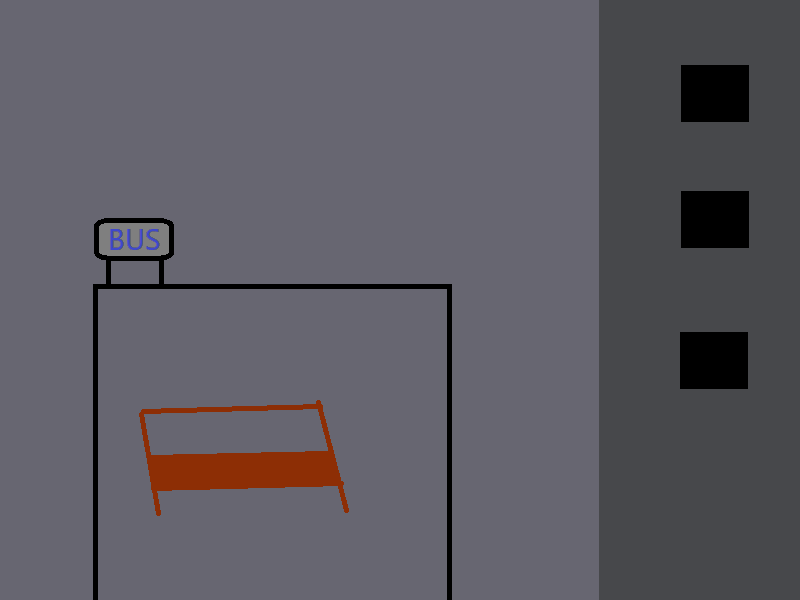
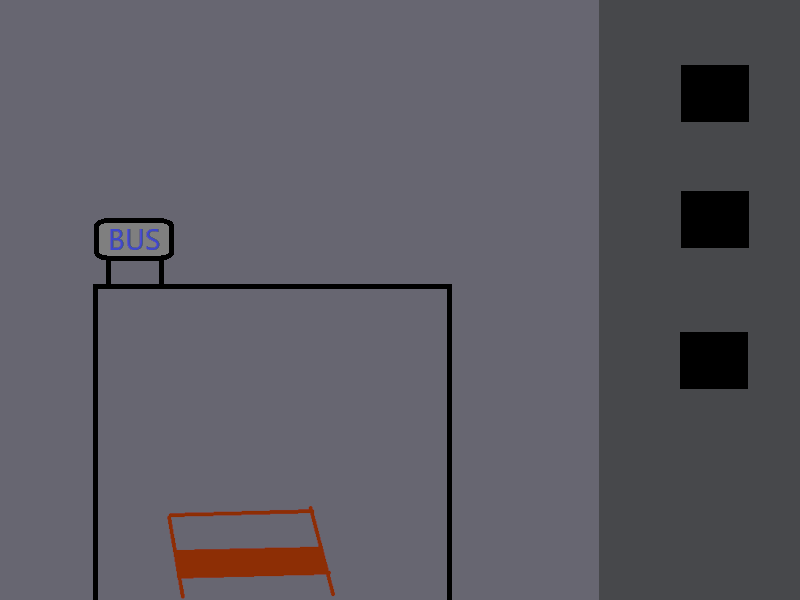
added possibility to scroll screens and load more sprites conditionally

Changed region(s): [[0.1562, 0.66, 0.4375, 1.0]]

diff --git a/gameloop.py b/gameloop.py
@@ -1,24 +1,64 @@
 import pygame
 import graphics as gp
 
+#Hardcoded screensize, to keep it relatively simple
 SCREENWIDTH = 800
 SCREENHEIGHT = 600
 
+#Action variables
+moveRight = False
+moveLeft = False
+jumping = False
+
+#Gameplay variables
+currentBg = 0
+lastBg = 0
+
+#Gamesettings
+clock = pygame.time.Clock()
+fps = 60
+
+#Character that is controlled by the player
 class Player:
     def __init__(self, health, stamina, level):
         self.health = health
         self.stamina = stamina
         self.level = level
+
         self.playerSprite = gp.getPlayerSprite()
+        self.speed = 5
+        self.playerSprite.rect.y = 505
+
     def __repr__(self):
         return f"Health: {self.health}, Stam: {self.stamina}, Level: {self.level}"
+    
+    #Player movement
+    def move (self):
+        dx = 0
+        dy = 0
 
+        if moveLeft:
+            dx = -self.speed
+        if moveRight:
+            dx = self.speed
+
+        self.playerSprite.rect.x += dx
+        self.playerSprite.rect.y += dy
+
+#Item within the game, that is not part of the background (sprite)
+class GameItem:
+    def __init__(self,name,scale):
+        self.decSprite = gp.InteractiveSprite(scale,name)
+        self.decSprite.rect.x = 0
+        self.decSprite.rect.y = 0
+
+#Future development
 class Enemy:
     def __init__(self):
         print("nothing here yet")
 
+#Placeholder class for possible settings
 class Game: 
-
     #For future pre-launch settings
     def __init__(self, x):
         self.x = x        
@@ -28,32 +68,76 @@ class Game:
     
 #Variables for various purposes in the loop
 gameRun = True
+
+#Gamescreen setup
 screen = pygame.display.set_mode((SCREENWIDTH, SCREENHEIGHT))
 pygame.display.set_caption('HackerMan64')
 player = Player(100, 100, 1)
-background = gp.loadImage('bg0.png')
-#background = pygame.transform.smoothscale(background, screen.get_size())
+bgArray = gp.backgroundArrayLoader('bg')
 
+#Puzzleitems
+chest = GameItem('chest3', 0.5)
+
+#Spritegrouping
 spritegroup1 = pygame.sprite.Group()
 spritegroup1.add(player.playerSprite)
+#spritegroup1.add(chest.decSprite)
     
-
 #Main gameloop
 while gameRun:
     
-    screen.blit(background, (0,0))
+    #Sets tickrate to the game (caps it rather)
+    clock.tick(fps)
+
+    #Setting playscreen background and drawing sprites
+    screen.blit(bgArray[currentBg], (0,0))
     spritegroup1.draw(screen)
 
+    #Button press / release events
     for event in pygame.event.get():
         if event.type == pygame.QUIT:
             gameRun = False
+        if event.type == pygame.KEYDOWN:
+            if event.key == pygame.K_a:
+                moveLeft = True
+            if event.key == pygame.K_d:
+                moveRight = True
+
+        if event.type == pygame.KEYUP:
+            if event.key == pygame.K_a:
+                moveLeft = False
+            if event.key == pygame.K_d:
+                moveRight = False
+
+    #Player sprite movement and background checks
+    player.move()
+
+    #Changing background if player moves over from the right side
+    if player.playerSprite.rect.x >= 755:
+        lastBg = currentBg
+        currentBg = currentBg + 1
+        player.playerSprite.rect.x = 0
+        if currentBg == 1 and lastBg == 0:
+            spritegroup1.add(chest.decSprite)
     
-    keys = pygame.key.get_pressed()
-    if keys[pygame.K_w]:
-        print(player)
+    #-||- from the left side
+    if player.playerSprite.rect.x <= -1 and currentBg != 0:
+        lastBg = currentBg
+        currentBg = currentBg - 1
+        player.playerSprite.rect.x = 754
+        if currentBg == 1 and lastBg == 2:
+            spritegroup1.add(chest.decSprite)
 
+    #Blocking player from moving left in starting screen
+    if player.playerSprite.rect.x < 0 and currentBg == 0:
+        player.playerSprite.rect.x = 0
+    
+    #Removing sprites that are not part of current screen
+    if currentBg != 1:
+        spritegroup1.remove(chest.decSprite)
+
+    print(currentBg)
     pygame.display.flip()
-
 
 pygame.quit()
     

diff --git a/graphics.py b/graphics.py
@@ -3,24 +3,38 @@ import pygame
 
 ASSET_FOLDER = 'assets/'
 
+environmentSprites = []
+
+#Moving sprites, eg players and enemies
 class MovableSprite (pygame.sprite.Sprite):
     def __init__(self):
         super().__init__()
-        self.image = loadSpriteImage('char0.png')
+        self.image = loadSpriteImage('char0')
         self.rect = self.image.get_rect()
         self.mask = pygame.mask.from_surface(self.image)
-    
-class DecorationSprite:
-    def __init__(self, scale):
+
+#Sprites that have are non-moving and non-interactable    
+class DecorationSprite (pygame.sprite.Sprite):
+    def __init__(self, scale, name):
+        super().__init__()
         self.scale = scale
+        self.name = name
 
     def __repr__(self):
-        return f"Scale: {self.scale}"
-    
-class InteractiveSprite:
-    def __init__(self,scale,rarity):
+        return f"Scale: {self.scale}, name: {self.name}"
+
+#Sprites that have some amount of interaction
+class InteractiveSprite (pygame.sprite.Sprite):
+    def __init__(self,scale,name):
+        super().__init__()
+        self.image = loadEnvironmentSpriteImage(name)
+        self.rect = self.image.get_rect()
+        self.mask = pygame.mask.from_surface(self.image)
+        self.name = name
+        
+        #Scaling the object to desired size
         self.scale = scale
-        self.rarity = rarity
+        self.image = pygame.transform.scale_by(self.image, scale)
 
     def __repr__(self):
         return f"Scale: {self.scale}, Rarity: {self.rarity}"
@@ -35,7 +49,20 @@ def loadImage(fname):
     return img
 
 def loadSpriteImage(fname):
-    imgpath = f"{ASSET_FOLDER}/{fname}"
+    imgpath = f"{ASSET_FOLDER}/{fname}.png"
+    img = pygame.image.load(imgpath).convert_alpha()
+    return img
+
+def backgroundArrayLoader(fname):
+    bgImageArray = []
+    for i in range(2):
+        imgpath = f"{ASSET_FOLDER}/{fname}{i}.png"
+        img = pygame.image.load(imgpath).convert()
+        bgImageArray.append(img)
+    return bgImageArray
+
+def loadEnvironmentSpriteImage(fname):
+    imgpath = f"{ASSET_FOLDER}/env_{fname}.png"
     img = pygame.image.load(imgpath).convert_alpha()
     return img
 
